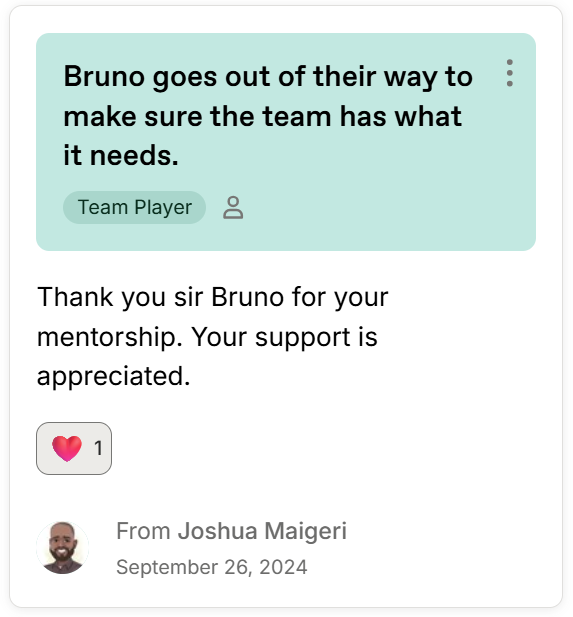
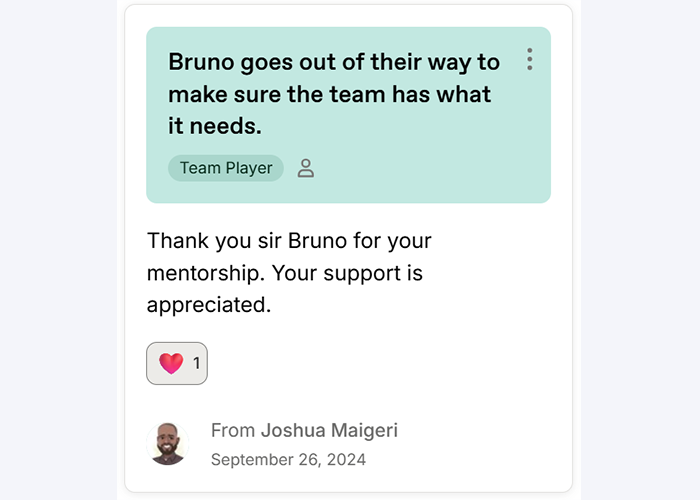
Vibes finished

diff --git a/src/components/layout/Vibes.js b/src/components/layout/Vibes.js
@@ -52,15 +52,15 @@ function VibesImg() {
   return (
     <div className={styles.vibesApp}>
       <div style={{ textAlign: "center" }}>
-        <h1>Feedback from my Work</h1>
+        <h1>Feedback From My Team</h1>
         <p>Coworkers and Leaders</p>
         <div style={{
           padding: "0 20px"
         }}>
           <Carousel
             data={vibesdata}
-            time={7000}
-            width="850px"
+            time={10000}
+            width="700px"
             height="500px"
             captionStyle={captionStyle}
             radius="10px"
@@ -77,7 +77,7 @@ function VibesImg() {
             thumbnailWidth="100px"
             style={{
               textAlign: "center",
-              maxWidth: "850px",
+              maxWidth: "700px",
               maxHeight: "500px",
               margin: "40px auto",
             }}

diff --git a/src/components/layout/Hero.js b/src/components/layout/Hero.js
@@ -17,7 +17,7 @@ function Hero () {
             </div>
           </div>
           <p>HELLO, I'M BRUNO.</p>
-          <h1>Front-end Developer</h1>
+          <h1>QA Engineer</h1>
         </div>
       </div>
     </Container>

diff --git a/src/components/layout/Vibes.module.css b/src/components/layout/Vibes.module.css
@@ -1,6 +1,6 @@
 .vibesApp {
   display: block;
-  height: 980px;
+  height: 110vh;
   width: 100%;
   background-color: azure;
   text-align: center;
